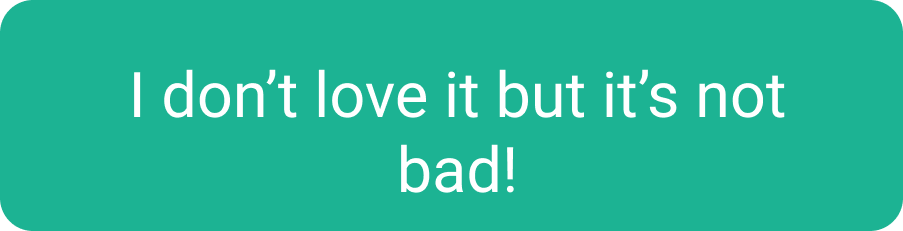
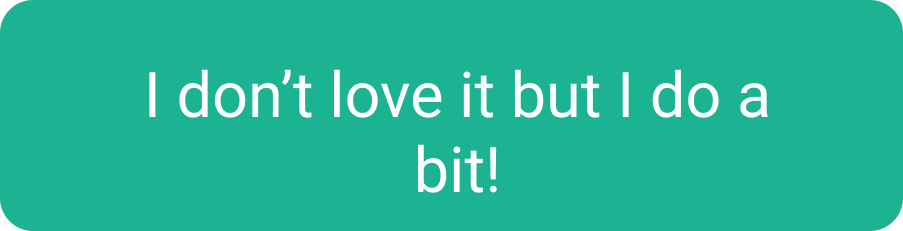
wording changes; 1st screen changes to make language more specific; fixed the animation file on feedback screen; adjusted the physical activity to 4 hrs max;

Changed region(s): [[0.124, 0.303, 0.8682, 0.5152], [0.4341, 0.6061, 0.5891, 0.8485]]

diff --git a/public/js/script.js b/public/js/script.js
@@ -335,8 +335,9 @@ survey
         if (options.page.name == "page39") {
             let nutritionSummary = '<div class="uk-container">';
             let gradient = "";
-            let headingOne = "<p>These are foods that reduce your heart risk, the more you eat them the healthier your heart will be. Anything more than a couple of servings per day will be great!</p>"
-            let headingTwo = "<p>These are foods that increases your heart risk, you want to limit your consumption to about once a week." +
+            let headingOne = "<h3><b>Let's start with foods that reduce your risk!</b></h3><p>These are foods that reduce your heart risk, the more you eat them the healthier your heart will be. Anything more than a couple of servings per day will be great!</p>"
+            let headingTwo = "<br><br><h3><b>And these are foods that increase it.. </b></h3>"+
+            "<p>The foods below increase your heart risk, you want to limit your consumption to about once a week." +
                 " If meat is an essential part of your diet you’ll want to look to substitute it with more white meats like chicken.</p>"
 
             for (const categoriesKey in categories) {
@@ -636,7 +637,6 @@ survey.onValueChanged.add(function (survey, options) {
 
     const goodFoodsQuestion = survey.getQuestionByName("good-foods");
     goodFoodsQuestion.html =
-        "<h3>Let’s start with nutrition! </h3> <br> " +
         "<div id='nutritionSummary' style='overflow: hidden'></div>";
     /*<p>  (You eat low fiber grains <b>"+grainLowQuestion+"</b>, you need a least one serving every day)</p></div></li>";*/
 
@@ -646,19 +646,19 @@ survey.onValueChanged.add(function (survey, options) {
             <h2>Time to get moving!</h2>
             <br>
             <div class="uk-container uk-text-center">
-                <p class="uk-margin-remove uk-text-meta">12 hrs | 0 min</p>
+                <p class="uk-margin-remove uk-text-meta">+ 4 hrs  |  0 min</p>
                 <div uk-grid class="uk-child-width-1-6">
                     <div class="uk-margin-auto-vertical">
-                        <p class="uk-text-nowrap uk-text-meta">9 hrs</p>
+                        <p class="uk-text-nowrap uk-text-meta">3 hrs</p>
                     </div>
                     <div class="uk-width-expand">
                         <div id="timeChart"></div>
                     </div>
                     <div class="uk-margin-auto-vertical">
-                        <p class="uk-text-meta uk-text-nowrap">3 hrs</p>
+                        <p class="uk-text-meta uk-text-nowrap">1 hrs</p>
                     </div>
                 </div>
-                <p class="uk-text-nowrap uk-text-meta uk-margin-remove">6 hrs</p>
+                <p class="uk-text-nowrap uk-text-meta uk-margin-remove">2 hrs</p>
             </div>
             <br>
              <div class="uk-child-width-1-1 uk-text-center" uk-grid>
@@ -679,7 +679,7 @@ survey.onValueChanged.add(function (survey, options) {
     const activitiesQuestion = survey.getQuestionByName("activities");
     activitiesQuestion.html = "<div><center> <h3>Now, this is your score today, and you can change it by trying out different habits. Next month your score could be totally different!</h3> <br>"
         + "<p><img alt='' class='image'  src=" + feedbackImage + "></p>"
-        + " <p>How likely do you think you'll make changes in your lifestyle ?</p> </center> <br>" +
+        + " <p>How likely do you think you'll make changes in your lifestyle ? Move the slider!</p> </center> <br>" +
         "<div id='slider' class='uk-container'></div> <br><br> </div>";
 });
 

diff --git a/public/js/json.js b/public/js/json.js
@@ -928,19 +928,19 @@ const json = {
                     "choices": [
                         {
                             "value":15,
-                            "text":"Fruits & Veggies ( you can increase 80 pts)"
+                            "text":"Fruits & Veggies"
                         },
                         {
                             "value":10,
-                            "text":"Red & Processed meats ( you can increase 50 pts)"
+                            "text":"Red & Processed meats"
                         },
                         {
                             "value":12,
-                            "text":"Cereal fiber ( you can increase 120 pts)"
+                            "text":"Cereal fiber"
                         },
                         {
                             "value":25,
-                            "text":"Nuts and Seeds ( you can increase 150 pts)"
+                            "text":"Nuts and Seeds"
                         }
                     ]
                 }
@@ -954,8 +954,7 @@ const json = {
                 {
                     "type": "html",
                     "name": "improveScoreText",
-                    "html": "<h3><center> Greaaaat! Very exciting! </center></h3>" +
-                        "<p><center>By improving in those two areas you will bring your score up by this much!</center></p>"+
+                    "html": "<h3><center> OMG! Look how much your score will improve if you change some habits </center></h3>" +
                         "<div id='sketch-holder'></div>"
                 },
                 {
@@ -967,7 +966,7 @@ const json = {
                     "hasNone": false,
                     "choices": [
                         {
-                            "value": 0,
+                            "value": 1,
                             "imageLink": './svg/improveButton.svg'
                         },
                     ]
@@ -978,7 +977,7 @@ const json = {
             "elements": [
                 {
                     "type": "html",
-                    "visibleIf": "{awesomeWeLoveToHearThat} < 1",
+                    "visibleIf": "{improveScore} == 1",
                     "html": `
                     <div class="uk-container">
                         <ul uk-accordion>
@@ -1030,12 +1029,12 @@ const json = {
                         "        feel free to share this quiz.</p>" +
                         "    <br>" +
                         "    <div onclick='window.location.reload(true)'>" +
-                        "        <img src=\"./svg/retake-quiz.svg\" alt=\"retake-quiz\">" +
+                        "        <img src=\"./../public/svg/retake-quiz.svg\" alt=\"retake-quiz\">" +
                         "        <p class=\"uk-margin-remove\">retake quiz</p>" +
                         "    </div>" +
                         "    <br>" +
                         "    <div onclick='shareQuiz()'>" +
-                        "        <img src=\"./svg/share-quiz.svg\" alt=\"retake-quiz\">" +
+                        "        <img src=\"./../public/svg/share-quiz.svg\" alt=\"retake-quiz\">" +
                         "        <p class=\"uk-margin-remove\">share quiz</p>" +
                         "    </div>" +
                         "    <br>" +

diff --git a/public/js/functions.js b/public/js/functions.js
@@ -257,6 +257,12 @@ function calculateBarProgress() {
     } else {
         animationValues[8] = animationValues[7] + parseInt(rawAlcohol * 20)
     }
+
+    // Extra points
+    if (extraPoints > 0){
+        animationValues[9] = animationValues[8]+30
+        console.log("these are the anim values",animationValues);
+    }
 }
 
 // Set up messages for each option : three states, good, medium, bad
@@ -272,11 +278,11 @@ function displayFeedbackMessage(feedbackChosen) {
 
 
 function calculateGoodBadDiet() {
-    let rawScoreValues = [0, rawSport, animationValues[2] - animationValues[1], animationValues[3] - animationValues[2], (animationValues[4] - animationValues[3]) / 2, 20 - (animationValues[5] - animationValues[4]), 20 - (animationValues[6] - animationValues[5]), rawSmoke, rawAlcohol];
+    let rawScoreValues = [0, rawSport, animationValues[2] - animationValues[1], animationValues[3] - animationValues[2], (animationValues[4] - animationValues[3]) / 2, 20 - (animationValues[5] - animationValues[4]), 20 - (animationValues[6] - animationValues[5]), rawSmoke, rawAlcohol,animationValues[9]-animationValues[8]];
     // graphScoreValues = [rawGrains*const,]
     // Calculates the percentage score
     for (const key in animationValues) {
-        if (key > 1 && key < animationValues.length - 2) {
+        if (key > 1 && key < animationValues.length - 3) {
             // const result = ((animationValues[key] - animationValues[key - 1]) / animationValuesHealthy[key]);
             const result = ((animationValues[key] - animationValues[key - 1]) / animationValuesHealthy[key]);
             // cleanSortedValuesHealthy.push(animationValuesHealthy[key])
@@ -318,11 +324,11 @@ function calculateGoodBadDiet() {
 
 
 function min2Percentage(val) {
-    return Math.ceil(val / 720 * 100)
+    return Math.ceil(val / 240 * 100)
 }
 
 function percentage2Min(val) {
-    return Math.ceil(val / 100 * 720)
+    return Math.ceil(val / 100 * 240)
 }
 
 

diff --git a/public/js/globals.js b/public/js/globals.js
@@ -82,7 +82,7 @@ let redmeat_a = ['img/redmeat_never.png', 'img/generic_bad_lessthan1.png', 'img/
 let soda_a = ['img/soda_never.png', 'img/generic_bad_lessthan1.png', 'img/soda_1to2.png', 'img/soda_3to5.png', 'img/generic_bad_everyday.png', 'img/generic_bad_twiceaday.png'];
 let alcohol_a = ['img/alcohol_never.png', 'img/alcohol_lessthan1.png', 'img/alcohol_1to2.png', 'img/alcohol_3to5.png', 'img/generic_bad_everyday.png', 'img/generic_bad_twiceaday.png'];
 // let alcohol_a = ['img/.png','img/.png','img/.png','img/.png','img/.png','img/.png'];
-let summarySubtitle = ["Don’t worry! This means that down the road, when you’re in your 40s, your heart will be a little more at risk for heart disease. " +
+let summarySubtitle = ["Don’t worry! This means that down the road, when you're in your 40s, your heart will be a little more at risk for heart disease.<br><br>" +
 "The good news is you’re still young and have plenty of time to lower your risk and we’ve got some tips to help you do that!"]
 let feedbackText = "Awesome, we love to hear that!"
 let noUiSliderUpdate = 0

diff --git a/public/index.html b/public/index.html
@@ -8,7 +8,7 @@
     <link href="https://unpkg.com/nouislider@9.2.0/distribute/nouislider.min.css" rel="stylesheet"/>
     <link href="https://cdn.jsdelivr.net/npm/uikit@3.13.10/dist/css/uikit.min.css" rel="stylesheet"/>
     <link href="./css/override.css?v=2" rel="stylesheet">
-    <link href="./css/nutrition-summary-styles.css?v=2" rel="stylesheet">
+    <link href="./css/nutrition-summary-styles.css?v=3" rel="stylesheet">
 </head>
 
 <body>
@@ -61,8 +61,8 @@
 
 <script src="js/firebase.js"></script>
 <script src="js/globals.js"></script>
-<script src="js/functions.js"></script>
-<script src="js/json.js?v=2"></script>
-<script src="js/script.js?v=26"></script>
+<script src="js/functions.js?v=2"></script>
+<script src="js/json.js?v=3"></script>
+<script src="js/script.js?v=27"></script>
 
 </html>
